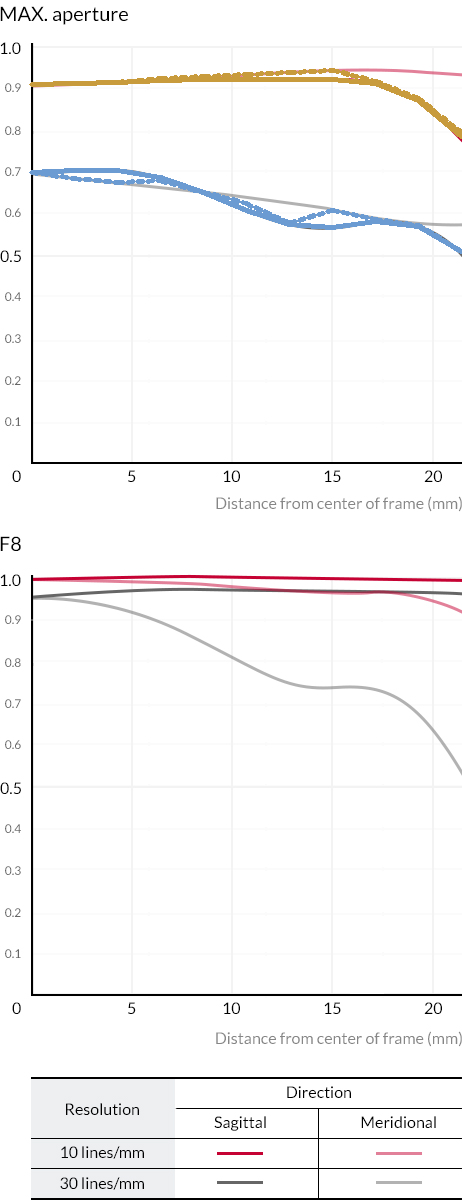
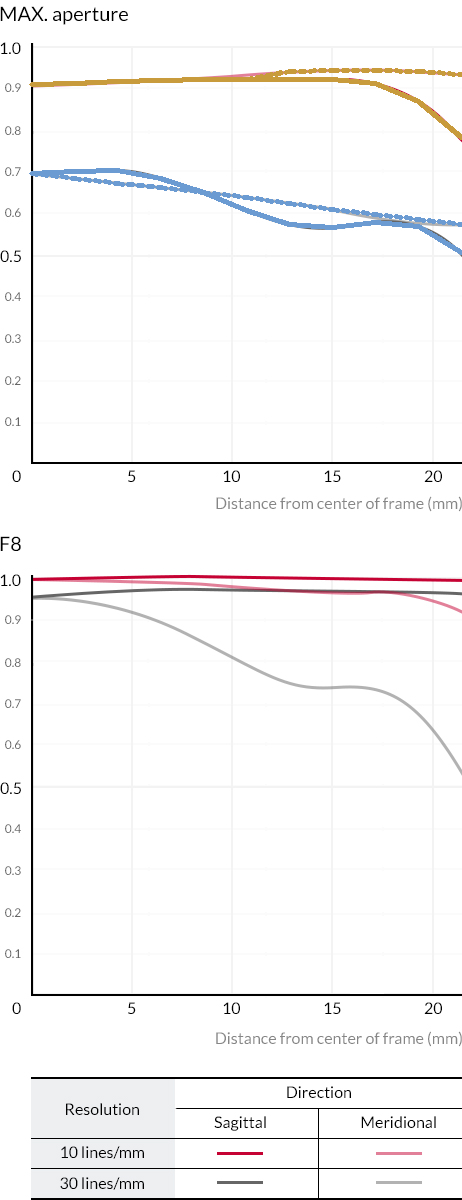
fix(mtfdigitizer): review.py iterates chart.views for ADR-063 and ADR-043
`_emit_chart` previously operated only on the primary view via
`aperture_passes_for_view(chart, image_path)` (no `view` arg), so
multi-view reference charts (samyang stacked-panel ADR-063, Fujifilm
per-frequency ADR-043) emitted one wrong-named overlay covering only
the primary panel. The tracked `-mtf-max-overlay.png` /
`-mtf-stopped-overlay.png` files in the reference tree were stale
orphans with no current regenerator. Same bug pattern that #1318 fixed
in svg.py last session.

Refactor `_emit_chart` to iterate `chart.views` (primary +
`additional_views`), resolve each view's image path, and pass the view
into `aperture_passes_for_view`. Add a local `_artifact_stem` helper
that mirrors `extract.py._artifact_stem` and `svg.py._artifact_stem`
exactly (multi-aperture-per-chart or per-view-aperture overrides get
a `-{aperture}` suffix; everything else uses the source raster stem).

Regenerated artifacts:

- **samyang-85mm-f1-4-as-if-umc-mtf-max-overlay.png**: now reflects the
  GT correction from #1324 — 30M blue trace sits above 30S in the
  11-22mm region, edge separation 30S~0.50 vs 30M~0.57 matching the
  source chart. Previously stale since #1324 fixed the GT but review.py
  could not regenerate it.
- **samyang-85mm-f1-4-as-if-umc-mtf-max-review.html**: companion HTML
  refreshed (was CRLF, now LF per b46ca58).
- **samyang-85mm-f1-4-as-if-umc-mtf-stopped-overlay.png**: first real
  regeneration since orphan creation — F8 panel now carries the
[…]

diff --git a/docs/optical-specs/fujifilm-xf-23mm-f1-4-r-lm-wr/fujifilm-xf-23mm-f1-4-r-lm-wr-45lp-review.html b/docs/optical-specs/fujifilm-xf-23mm-f1-4-r-lm-wr/fujifilm-xf-23mm-f1-4-r-lm-wr-45lp-review.html
@@ -2,7 +2,7 @@
 <html lang="en">
   <head>
     <meta charset="utf-8" />
-    <title>samyang-85mm-f1-4-as-if-umc-mtf-max - MTF review</title>
+    <title>fujifilm-xf-23mm-f1-4-r-lm-wr-45lp - MTF review</title>
     <style>
       body {
         font-family: ui-monospace, "Cascadia Code", monospace;
@@ -53,19 +53,19 @@
     </style>
   </head>
   <body>
-    <h1>samyang-85mm-f1-4-as-if-umc-mtf-max</h1>
+    <h1>fujifilm-xf-23mm-f1-4-r-lm-wr-45lp</h1>
     <div class="grid">
       <div class="panel">
         <h2>Original</h2>
-        <img src="samyang-85mm-f1-4-as-if-umc-mtf.png" alt="Original MTF chart" />
+        <img src="fujifilm-xf-23mm-f1-4-r-lm-wr-45lp.png" alt="Original MTF chart" />
       </div>
       <div class="panel">
         <h2>Regenerated SVG</h2>
-        <img src="samyang-85mm-f1-4-as-if-umc-mtf-max.svg" alt="Regenerated MTF SVG from extracted readings" />
+        <img src="fujifilm-xf-23mm-f1-4-r-lm-wr-45lp.svg" alt="Regenerated MTF SVG from extracted readings" />
       </div>
       <div class="panel bottom">
         <h2>Overlay (extractor curves over original)</h2>
-        <img src="samyang-85mm-f1-4-as-if-umc-mtf-max-overlay.png" alt="Extractor polylines overlaid on the original chart" />
+        <img src="fujifilm-xf-23mm-f1-4-r-lm-wr-45lp-overlay.png" alt="Extractor polylines overlaid on the original chart" />
       </div>
     </div>
   </body>

diff --git a/docs/optical-specs/fujifilm-gf-23mm-f4-r-lm-wr/fujifilm-gf-23mm-f4-r-lm-wr-20lp-review.html b/docs/optical-specs/fujifilm-gf-23mm-f4-r-lm-wr/fujifilm-gf-23mm-f4-r-lm-wr-20lp-review.html
@@ -2,7 +2,7 @@
 <html lang="en">
   <head>
     <meta charset="utf-8" />
-    <title>samyang-85mm-f1-4-as-if-umc-mtf-max - MTF review</title>
+    <title>fujifilm-gf-23mm-f4-r-lm-wr-20lp - MTF review</title>
     <style>
       body {
         font-family: ui-monospace, "Cascadia Code", monospace;
@@ -53,19 +53,19 @@
     </style>
   </head>
   <body>
-    <h1>samyang-85mm-f1-4-as-if-umc-mtf-max</h1>
+    <h1>fujifilm-gf-23mm-f4-r-lm-wr-20lp</h1>
     <div class="grid">
       <div class="panel">
         <h2>Original</h2>
-        <img src="samyang-85mm-f1-4-as-if-umc-mtf.png" alt="Original MTF chart" />
+        <img src="fujifilm-gf-23mm-f4-r-lm-wr-20lp.png" alt="Original MTF chart" />
       </div>
       <div class="panel">
         <h2>Regenerated SVG</h2>
-        <img src="samyang-85mm-f1-4-as-if-umc-mtf-max.svg" alt="Regenerated MTF SVG from extracted readings" />
+        <img src="fujifilm-gf-23mm-f4-r-lm-wr-20lp.svg" alt="Regenerated MTF SVG from extracted readings" />
       </div>
       <div class="panel bottom">
         <h2>Overlay (extractor curves over original)</h2>
-        <img src="samyang-85mm-f1-4-as-if-umc-mtf-max-overlay.png" alt="Extractor polylines overlaid on the original chart" />
+        <img src="fujifilm-gf-23mm-f4-r-lm-wr-20lp-overlay.png" alt="Extractor polylines overlaid on the original chart" />
       </div>
     </div>
   </body>

diff --git a/docs/optical-specs/fujifilm-gf-23mm-f4-r-lm-wr/fujifilm-gf-23mm-f4-r-lm-wr-40lp-review.html b/docs/optical-specs/fujifilm-gf-23mm-f4-r-lm-wr/fujifilm-gf-23mm-f4-r-lm-wr-40lp-review.html
@@ -2,7 +2,7 @@
 <html lang="en">
   <head>
     <meta charset="utf-8" />
-    <title>samyang-85mm-f1-4-as-if-umc-mtf-max - MTF review</title>
+    <title>fujifilm-gf-23mm-f4-r-lm-wr-40lp - MTF review</title>
     <style>
       body {
         font-family: ui-monospace, "Cascadia Code", monospace;
@@ -53,19 +53,19 @@
     </style>
   </head>
   <body>
-    <h1>samyang-85mm-f1-4-as-if-umc-mtf-max</h1>
+    <h1>fujifilm-gf-23mm-f4-r-lm-wr-40lp</h1>
     <div class="grid">
       <div class="panel">
         <h2>Original</h2>
-        <img src="samyang-85mm-f1-4-as-if-umc-mtf.png" alt="Original MTF chart" />
+        <img src="fujifilm-gf-23mm-f4-r-lm-wr-40lp.png" alt="Original MTF chart" />
       </div>
       <div class="panel">
         <h2>Regenerated SVG</h2>
-        <img src="samyang-85mm-f1-4-as-if-umc-mtf-max.svg" alt="Regenerated MTF SVG from extracted readings" />
+        <img src="fujifilm-gf-23mm-f4-r-lm-wr-40lp.svg" alt="Regenerated MTF SVG from extracted readings" />
       </div>
       <div class="panel bottom">
         <h2>Overlay (extractor curves over original)</h2>
-        <img src="samyang-85mm-f1-4-as-if-umc-mtf-max-overlay.png" alt="Extractor polylines overlaid on the original chart" />
+        <img src="fujifilm-gf-23mm-f4-r-lm-wr-40lp-overlay.png" alt="Extractor polylines overlaid on the original chart" />
       </div>
     </div>
   </body>

diff --git a/tools/mtfdigitizer/review.py b/tools/mtfdigitizer/review.py
@@ -45,6 +45,7 @@ import cv2
 import numpy as np
 
 from .aperture_passes import aperture_passes_for_view
+from .family_profile import profile_for_chart
 from .loader import load_chart_bgr
 from .pipeline import ExtractedChart, SampledReading, extract_chart
 from .pipeline.dispatch import parse_field_name
@@ -52,7 +53,7 @@ from .pipeline.plotbox import image_height_mm_to_x_pixel
 from .pipeline.rendermatch import fields_in
 from .pipeline.types import PlotBox
 from .referenceset import REFERENCE_CHARTS
-from .referenceset.charts import PlotBoxCoords, ReferenceChart
+from .referenceset.charts import ChartView, PlotBoxCoords, ReferenceChart
 
 
 REPO_ROOT = Path(__file__).resolve().parents[2]
@@ -356,6 +357,30 @@ def _svg_path_for(image_path: Path) -> Path:
     return image_path.with_suffix(".svg")
 
 
+def _artifact_stem(
+    chart: ReferenceChart, view: ChartView, aperture: str, image_path: Path
+) -> str:
+    """Stem for one (chart, view, aperture) pass's review artifacts.
+
+    Mirrors ``extract.py._artifact_stem`` and ``svg.py._artifact_stem`` so
+    calibration-set review files share the naming convention of
+    production-tier artifacts. Two cases suffix the stem with the aperture
+    label so multi-pass artifacts do not overwrite each other; everything
+    else uses the source raster's bare stem.
+
+    - Multi-aperture-per-chart (ADR-044, TTartisan): hue-filtered
+      per-aperture passes — label from ``profile.apertures_per_chart``.
+    - Per-view aperture override (ADR-063, Samyang stacked panels):
+      each ``ChartView`` declares its own aperture role label.
+    """
+    profile = profile_for_chart(chart)
+    if profile.apertures_per_chart is not None:
+        return f"{image_path.stem}-{aperture}"
+    if view.aperture is not None:
+        return f"{image_path.stem}-{aperture}"
+    return image_path.stem
+
+
 def _emit_chart(
     chart: ReferenceChart,
     *,
@@ -365,66 +390,63 @@ def _emit_chart(
     """Render one reference chart's review file(s). Returns an empty list
     in ``--check`` mode after rendering everything in memory.
 
-    Multi-aperture charts (ADR-044) fan out to one review file per
-    aperture via ``aperture_passes_for_view`` — matching the per-aperture
-    output naming convention svg.py uses (``<stem>-<aperture>.svg``) and
-    the per-aperture review files autotriage.py already writes. Without
-    this fan-out, ``extract_chart`` is called with the full multi-aperture
-    profile and ``dispatch.field_skeletons`` raises KeyError because
-    ``unique_named_hues`` lists N aperture hues but ``frequencies_lpmm``
-    only lists the per-aperture frequencies (#1132).
+    Iterates ``chart.views`` (primary + ``additional_views``) so
+    multi-panel charts (ADR-063 per-view aperture override, Samyang
+    stacked panels) emit one review file per panel. Multi-aperture
+    charts (ADR-044) further fan out per aperture via
+    ``aperture_passes_for_view``. Without view iteration, the second
+    panel's overlay and review HTML were never emitted (#1325), and the
+    tracked ``-mtf-max-overlay.png`` / ``-mtf-stopped-overlay.png`` files
+    in the reference tree had no current regenerator.
 
     ``out_dir`` defaults to the source image's directory (the production
     layout under ``docs/optical-specs/<slug>/``); tests pass a temp dir
     to avoid touching the reference tree.
     """
-    assert chart.plot_box is not None
-    image_path = REPO_ROOT / chart.chart_path
-    plot_box = _to_plotbox(chart.plot_box)
-    passes = aperture_passes_for_view(chart, image_path)
-    multi = len(passes) > 1
-
     outputs: list[ReviewOutputs] = []
-    for aperture, profile in passes:
-        extracted = extract_chart(
-            image_path, profile, plot_box, image_height_mm=chart.image_height_mm
-        )
-        stem_override = f"{image_path.stem}-{aperture}" if multi else None
-        stem = stem_override if stem_override is not None else image_path.stem
-        svg_path = (
-            image_path.with_name(f"{stem_override}.svg")
-            if stem_override is not None
-            else _svg_path_for(image_path)
-        )
+    for view in chart.views:
+        assert view.plot_box is not None
+        view_image_path = REPO_ROOT / view.chart_path
+        plot_box = _to_plotbox(view.plot_box)
+        passes = aperture_passes_for_view(chart, view_image_path, view)
 
-        if check_only:
-            # Exercise the overlay + HTML paths without touching disk so
-            # --check still catches regressions in either code path.
-            bgr = load_chart_bgr(image_path)
-            _ = render_overlay(
-                bgr, extracted.readings, plot_box, chart.image_height_mm
-            )
-            _ = render_review_html(
-                title=stem,
-                paths=ReviewPaths(
-                    original_filename=image_path.name,
-                    svg_filename=svg_path.name,
-                    overlay_filename=f"{stem}-overlay.png",
-                ),
-            )
-            continue
-
-        outputs.append(
-            write_review(
-                extracted,
-                image_path,
-                plot_box=plot_box,
+        for aperture, profile in passes:
+            extracted = extract_chart(
+                view_image_path, profile, plot_box,
                 image_height_mm=chart.image_height_mm,
-                svg_path=svg_path,
-                out_dir=out_dir,
-                stem_override=stem_override,
             )
-        )
+            stem = _artifact_stem(chart, view, aperture, view_image_path)
+            stem_override = stem if stem != view_image_path.stem else None
+            svg_path = view_image_path.with_name(f"{stem}.svg")
+
+            if check_only:
+                # Exercise the overlay + HTML paths without touching disk
+                # so --check still catches regressions in either code path.
+                bgr = load_chart_bgr(view_image_path)
+                _ = render_overlay(
+                    bgr, extracted.readings, plot_box, chart.image_height_mm
+                )
+                _ = render_review_html(
+                    title=stem,
+                    paths=ReviewPaths(
+                        original_filename=view_image_path.name,
+                        svg_filename=svg_path.name,
+                        overlay_filename=f"{stem}-overlay.png",
+                    ),
+                )
+                continue
+
+            outputs.append(
+                write_review(
+                    extracted,
+                    view_image_path,
+                    plot_box=plot_box,
+                    image_height_mm=chart.image_height_mm,
+                    svg_path=svg_path,
+                    out_dir=out_dir,
+                    stem_override=stem_override,
+                )
+            )
     return outputs
 
 
